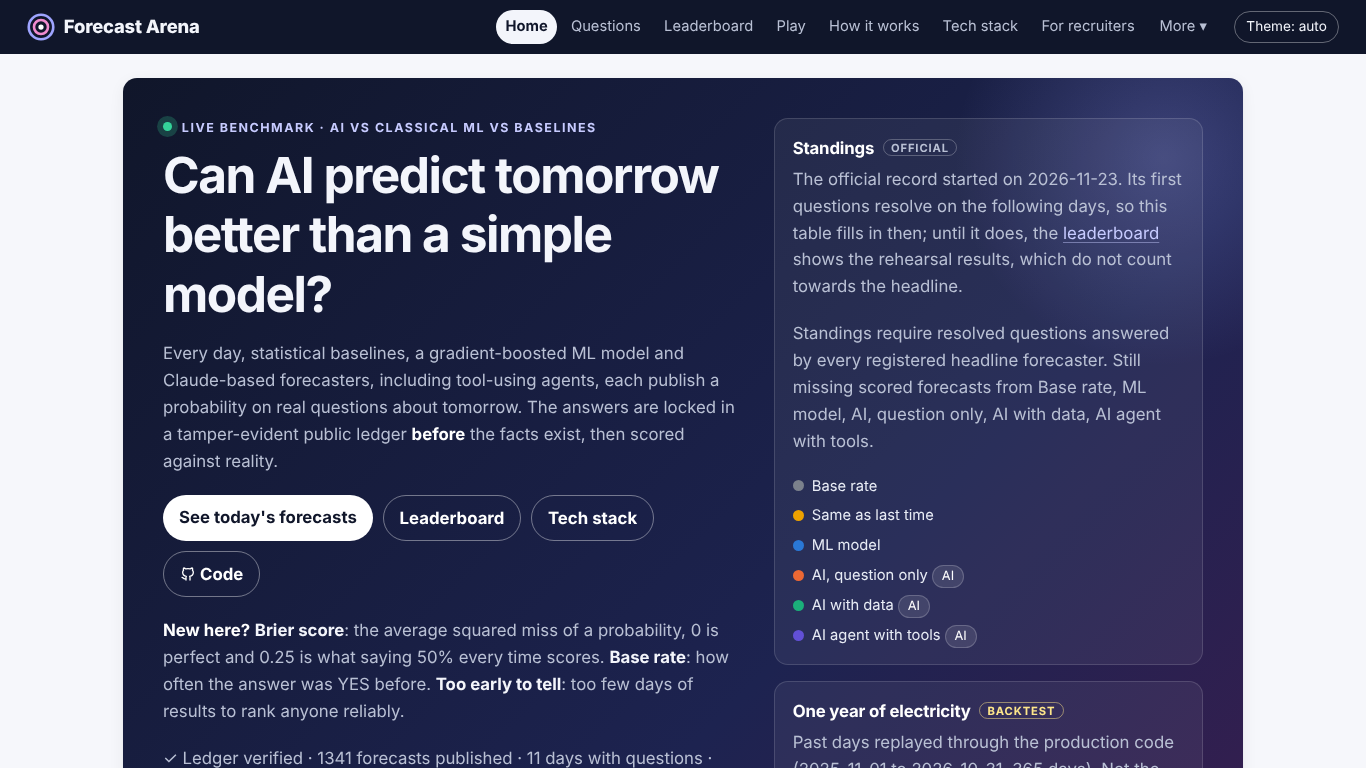
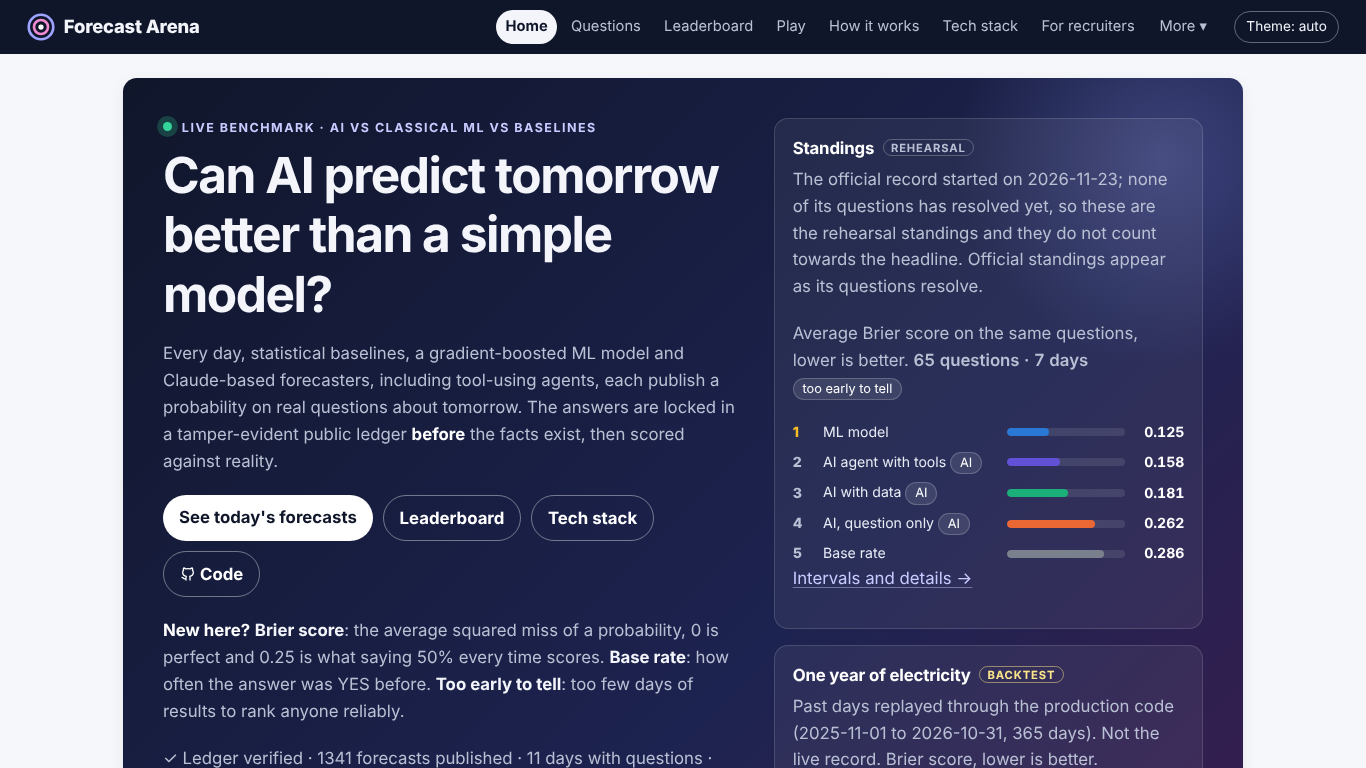
Home and leaderboard: show rehearsal standings with a clear note until the first official questions resolve
Claude-Session: https://claude.ai/code/session_01T7wLMVGg8K3ZF2NnAm8YZ5

diff --git a/src/arena/site/templates/index.html b/src/arena/site/templates/index.html
@@ -9,7 +9,8 @@
 {% endfor %}</ul>{% set rest = forecasters|length - answered|length %}{% if rest %}<p class="note bars-rest">{{ rest }} more forecaster{{ "s" if rest != 1 }} did not answer this one (the LLMs answer a daily sample; see <a href="{{ root }}status.html">Status</a>).</p>{% endif %}{% endmacro %}
 {% macro icon(name) %}<svg class="ico" viewBox="0 0 24 24" aria-hidden="true" focusable="false" fill="none" stroke="currentColor" stroke-width="2" stroke-linecap="round" stroke-linejoin="round">{% if name == "power" %}<path d="M13 2 4 14h7l-1 8 9-12h-7z"/>{% elif name == "weather" %}<path d="M17.5 19a4.5 4.5 0 1 0-1.4-8.8A6 6 0 0 0 4 12a4 4 0 0 0 1 7.9z"/>{% elif name == "attention" %}<path d="M2 12s3.5-7 10-7 10 7 10 7-3.5 7-10 7S2 12 2 12z"/><circle cx="12" cy="12" r="3"/>{% elif name == "markets" %}<path d="M3 17l6-6 4 4 8-8"/><path d="M15 7h6v6"/>{% elif name == "crypto" %}<circle cx="12" cy="12" r="9"/><path d="M9.5 8h4a2 2 0 0 1 0 4h-4h4.5a2 2 0 0 1 0 4h-4.5zM11 6.5v1.5M11 16v1.5"/>{% elif name == "lock" %}<rect x="4" y="11" width="16" height="10" rx="2"/><path d="M8 11V7a4 4 0 0 1 8 0v4"/>{% elif name == "target" %}<circle cx="12" cy="12" r="9"/><circle cx="12" cy="12" r="5"/><circle cx="12" cy="12" r="1"/>{% elif name == "open" %}<path d="M4 4h16v16H4z"/><path d="M9 9h6M9 13h6M9 17h3"/>{% elif name == "github" %}<path d="M9 19c-4 1.5-4-2-6-2m12 4v-3.5c0-1 .1-1.4-.5-2 2.8-.3 5.5-1.4 5.5-6a4.6 4.6 0 0 0-1.3-3.2 4.2 4.2 0 0 0-.1-3.2s-1.1-.3-3.5 1.3a12 12 0 0 0-6.2 0C6.5 2.8 5.4 3.1 5.4 3.1a4.2 4.2 0 0 0-.1 3.2A4.6 4.6 0 0 0 4 9.5c0 4.6 2.7 5.7 5.5 6-.6.6-.6 1.2-.5 2V21"/>{% endif %}</svg>{% endmacro %}
 {% block content %}
-{% set board = headline if official_start else rehearsal_board %}
+{% set official_ready = official_start and headline.rows %}
+{% set board = headline if official_ready else rehearsal_board %}
 <section class="hero hero-home" aria-labelledby="hero-title">
 <div class="hero-copy">
 <p class="kicker"><span class="pulse" aria-hidden="true"></span> Live benchmark · AI vs classical ML vs baselines</p>
@@ -21,7 +22,8 @@
 </div>
 <div class="hero-side">
 <aside class="standings" aria-labelledby="st-title">
-<h2 id="st-title">Standings <span class="st-scope">{{ "official" if official_start else "rehearsal" }}</span></h2>
+<h2 id="st-title">Standings <span class="st-scope">{{ "official" if official_ready else "rehearsal" }}</span></h2>
+{% if official_start and not official_ready %}<p class="st-note st-hint">The official record started on {{ official_start }}; none of its questions has resolved yet, so these are the rehearsal standings and they do not count towards the headline. Official standings appear as its questions resolve.</p>{% endif %}
 {% if board.rows %}
 <p class="st-note">Average Brier score on the same questions, lower is better. <span class="st-n">{{ board.questions }} questions · {{ board.days }} day{{ "" if board.days == 1 else "s" }}</span>{% if board.label %} <span class="label">{{ board.label }}</span>{% endif %}</p>
 <ol class="st-list">
@@ -29,7 +31,6 @@
 {% endfor %}</ol>
 <p class="st-foot"><a href="leaderboard.html">Intervals and details →</a></p>
 {% else %}
-{% if official_start %}<p class="st-note">The official record started on {{ official_start }}. Its first questions resolve on the following days, so this table fills in then; until it does, the <a href="leaderboard.html">leaderboard</a> shows the rehearsal results, which do not count towards the headline.</p>{% endif %}
 <p class="st-note">Standings require resolved questions answered by every registered headline forecaster.{% if board.missing_forecasters %} Still missing scored forecasts from {% for fid in board.missing_forecasters %}{{ fname(fid) }}{% if not loop.last %}, {% endif %}{% endfor %}.{% else %} No questions in this scope have complete coverage yet.{% endif %}</p>
 <ul class="lineup">
 {% for fid in ("base_rate", "persistence", "ml", "llm_plain", "llm_context", "agent") %}<li><span class="dot-key {{ series_class(fid) }}" aria-hidden="true"></span>{{ fname(fid) }}{% if is_ai(fid) %} <span class="label">AI</span>{% endif %}{% if fid == "ml" and not ml_live %} <span class="label">backtest only</span>{% endif %}</li>{% endfor %}

diff --git a/src/arena/site/templates/leaderboard.html b/src/arena/site/templates/leaderboard.html
@@ -3,11 +3,13 @@
 {% block content %}
 {{ page_head("Who forecasts best?", "Leaderboard", "Lower is better. A forecaster that always says 50% scores 0.25 (the line on each bar). The base rate is the yardstick to beat.") }}
 {% if not official_start %}<p class="rehearsal-note" role="note"><strong>Rehearsal phase.</strong> {{ start_rule }}</p>{% endif %}
-{% set main = headline[0] if official_start else rehearsal[0] %}
+{% set official_ready = official_start and headline[0] and headline[0].rows %}
+{% set main = headline[0] if official_ready else rehearsal[0] %}
+{% if official_start and not official_ready %}<p class="rehearsal-note" role="note"><strong>The official record started on {{ official_start }}</strong>, but none of its questions has resolved yet. The standings below are rehearsal results and do not count towards the headline; official standings appear here as its questions resolve.</p>{% endif %}
 {% if main and main.rows %}
 {% set ranked = main.rows|sort(attribute="brier.estimate") %}
 <section class="lb-hero" aria-labelledby="lb-top">
-<div class="section-head"><h2 id="lb-top">{{ "Official standings" if official_start else "Rehearsal standings" }}</h2>{% if main.label %}<span class="label">{{ main.label }}</span>{% endif %}</div>
+<div class="section-head"><h2 id="lb-top">{{ "Official standings" if official_ready else "Rehearsal standings" }}</h2>{% if main.label %}<span class="label">{{ main.label }}</span>{% endif %}</div>
 <ol class="podium">
 {% for r in ranked[:3] %}<li class="podium-{{ loop.index }}"><span class="medal-n" aria-hidden="true">{{ loop.index }}</span><span class="podium-name"><span class="dot-key {{ series_class(r.forecaster_id) }}" aria-hidden="true"></span><strong>{{ fname(r.forecaster_id) }}</strong>{% if is_ai(r.forecaster_id) %} <span class="label">AI</span>{% endif %}</span><span class="podium-score">{{ "%.3f"|format(r.brier.estimate) }}</span><span class="note">95% interval {{ "%.3f"|format(r.brier.low) }}–{{ "%.3f"|format(r.brier.high) }}</span></li>
 {% endfor %}</ol>

diff --git a/tests/unit/test_site_audit.py b/tests/unit/test_site_audit.py
@@ -143,7 +143,9 @@ def test_home_and_guide_say_the_official_record_started_when_the_start_file_exis
     led = Ledger(tmp_path / "b" / "l")
     led.write_raw(layout.OFFICIAL_START_PATH, json.dumps({"official_start": "2026-11-23"}).encode())
     res = build_site(led, tmp_path / "b" / "site", CLOCK, tmp_path / "none")
-    assert "The official record started on 2026-11-23" in _text(
-        (res.out_dir / "index.html").read_text()
-    )
+    home = _text((res.out_dir / "index.html").read_text())
+    assert "The official record started on 2026-11-23" in home
+    assert "none of its questions has resolved yet" in home and "Standings rehearsal" in home
+    board = _text((res.out_dir / "leaderboard.html").read_text())
+    assert "none of its questions has resolved yet" in board
     assert "It started on 2026-11-23" in _text((res.out_dir / "guide.html").read_text())

diff --git a/README.md b/README.md
@@ -33,7 +33,7 @@ append-only, hash-chained ledger. When the data arrives, every forecast is score
 
 [![The home page](docs/img/home.png)](https://jashd12.github.io/forecast-arena/)
 
-*Screenshot of the site built from the public ledger on 2026-11-23. Research project, not advice.*
+*Screenshot of the site built from the public ledger on 2026-11-24. Research project, not advice.*
 
 ## What this shows
 
